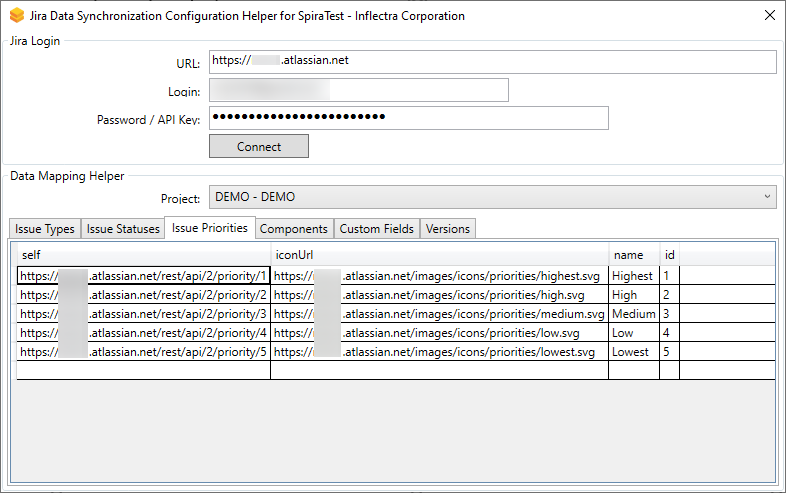
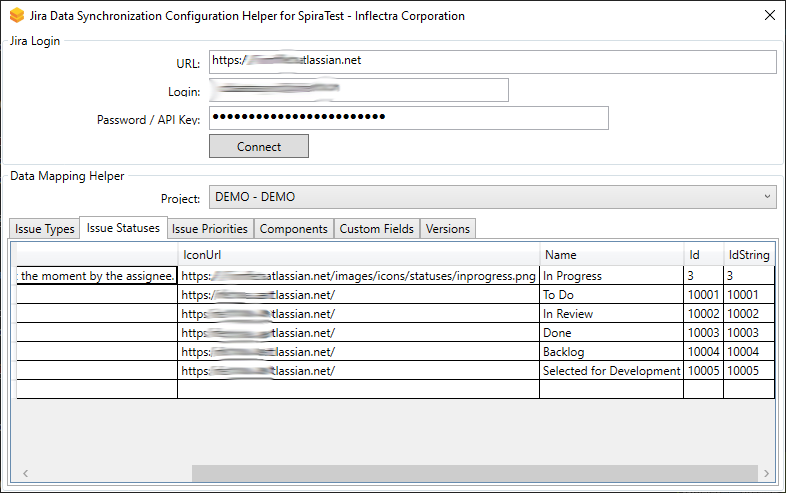
added task sync to jira plugins

diff --git a/docs/External-Bug-Tracking-Integration/Using-SpiraTeam-with-JIRA-5+.md b/docs/External-Bug-Tracking-Integration/Using-SpiraTeam-with-JIRA-5+.md
@@ -1,6 +1,6 @@
-# Using SpiraTeam with Jira Server (5 or later)
+# Using SpiraTeam with Jira Server (or DataCenter)
 
-This section outlines how to use SpiraTest, SpiraPlan or SpiraTeam (hereafter referred to as SpiraTeam) in conjunction with the Jira Server issue/bug tracking system version 5.0 and later. The built-in integration service allows the quality assurance team to manage their requirements and test cases in SpiraTeam, execute test runs in SpiraTest, and then have the new incidents generated during the run be automatically loaded into JIRA. Once the incidents are loaded into JIRA as issues, the development team can then manage the lifecycle of these issues in JIRA, and have the status changes in JIRA be reflected back in SpiraTeam.
+This section outlines how to use SpiraTest, SpiraPlan or SpiraTeam (hereafter referred to as SpiraTeam) in conjunction with the Jira Server or Jira DataCenter issue/bug tracking system version 5.0 and later. The built-in integration service allows the quality assurance team to manage their requirements and test cases in SpiraTeam, execute test runs in SpiraTest, and then have the new incidents generated during the run be automatically loaded into JIRA. Once the incidents are loaded into JIRA as issues, the development team can then manage the lifecycle of these issues in JIRA, and have the status changes in JIRA be reflected back in SpiraTeam. In addition, new tasks added in SpiraTeam get added to Jira as sub-tasks/tasks.
 
 In addition, any issues logged directly into JIRA will get imported into SpiraTeam as either new incidents or new requirements (depending on their type) so that they can be used as part of the planning and testing lifecycle.
 
@@ -54,7 +54,7 @@ time-zones here.
     - **Set to No**: users in SpiraTeam and JIRA are free to have different usernames because you specify the corresponding JIRA name for each user as outlined in [Configuring the User Mapping](#configuring-the-user-mapping)
 
 - **Custom 01**: This is used to specify a JIRA custom property that should be mapped to the built-in SpiraTeam Incident Severity field (which does not exist in JIRA). This can be left empty for now and will be discussed below in [Configuring the Data Mapping](#configuring-the-data-mapping).
-- **Custom 02**: This should be set to the word "True" if you want to have the new issues submitted to JIRA be submitted using a specified SecurityLevel. If you're not using the security level feature of JIRA, leave the field blank.
+- **Custom 02**: This should be set to a comma-separated list of IDs of any JIRA issue types that you want to be synchronized with SpiraPlan tasks instead of incidents. If you leave this blank, tasks in SpiraPlan will not be synched with Jira at all.
 - **Custom 03**: This determines how the synchronization of incidents works:
 
     - **Default (leave blank)**: By default the plugin will log new issues from SpiraTeam to JIRA, and from JIRA to SpiraTeam. Updates will only occur from JIRA to SpiraTeam. *NOTE: This is the recommended option for most users.*
@@ -286,6 +286,43 @@ The JIRA ID can be found by using the **Components** tab of the Jira configurati
 
 ![](img/Using_SpiraTeam_with_JIRA_5+_35.png)
 
+#### j) Task Status (Optional)
+
+Click on the "Status" hyperlink under Task Standard Fields to bring up the Task status mapping configuration screen:
+
+![](img/jira-task-mapping-status.png)
+
+The table lists each of the task statuses available in SpiraPlan and provides you with the ability to enter the matching JIRA issue status ID for each one. You can map multiple SpiraPlan fields to the same JIRA fields, in which case only one of the two values can be listed as Primary = Yes as that's the value that's used on the reverse synchronization (from JIRA to SpiraPlan).
+
+The JIRA ID can be found by using the **Issue Statuses** tab of the Jira configuration helper. *Please note, in Jira there are 5 default levels of Issue Priority, and only 4 (by default - this can be changed) in SpiraPlan.*
+
+![](img/Using_SpiraTeam_with_JIRA_5+_31.png)
+
+
+#### k) Task Priority (Optional)
+
+Click on the "Priority" hyperlink under Task Standard Fields to bring up the Task Priority mapping configuration screen:
+
+![](img/jira-task-mapping-priority.png)
+
+The table lists each of the task priorities available in SpiraPlan and provides you with the ability to enter the matching JIRA priority ID for each one. You can map multiple SpiraPlan fields to the same JIRA fields, in which case only one of the two values can be listed as Primary = Yes as that's the value that's used on the reverse synchronization (from JIRA to SpiraPlan).
+
+The JIRA ID can be found by using the **Issue Priorities** tab of the Jira configuration helper:
+
+![](img/Using_SpiraTeam_with_JIRA_5+_33.png)
+
+
+#### l) Task Type (Optional)
+
+Click on the "Type" hyperlink under Task Standard Fields to bring up the Task type mapping configuration screen:
+
+![](img/jira-task-mapping-type.png)
+
+The table lists each of the task types available in SpiraPlan and provides you with the ability to enter the matching JIRA issue type ID for each one. You can map multiple SpiraPlan fields to the same JIRA fields (e.g. Management and Other in SpiraPlan are both equivalent to Task in JIRA), in which case only one of the two values can be listed as Primary = Yes as that's the value that's used on the reverse synchronization (from JIRA to SpiraPlan).
+
+The JIRA ID can be found by using the **Issue Types** tab of the Jira configuration helper:
+
+![](img/Using_SpiraTeam_with_JIRA_5+_29.png)
 
 ### Configuring the Custom Property Mapping
 

diff --git a/docs/External-Bug-Tracking-Integration/Using-SpiraTeam-with-Jira-Cloud.md b/docs/External-Bug-Tracking-Integration/Using-SpiraTeam-with-Jira-Cloud.md
@@ -10,6 +10,7 @@ With this integration you can, for each project/product you want to sync up:
 - make sure all new incidents (and requirements) made in SpiraPlan get created in Jira
 - update SpiraPlan with changes made to issues in Jira
 - (advanced) update Jira with changes made to incidents in SpiraPlan
+- (advanced) create new Jira sub-tasks from tasks created in SpiraPlan
 - make sure your sprints match between Jira and SpiraPlan
 - connect together users so the right user is flagged against each issue and  incident
 
@@ -31,7 +32,7 @@ Now that the data synchronization service / application itself is set up, we are
 
 Now you need to configure the Jira integration to let you:
 
-- export incidents into JIRA, 
+- export incidents and tasks into JIRA, 
 - import new issues from JIRA
 - pick up subsequent status changes in JIRA and have them update SpiraPlan. 
 
@@ -71,7 +72,7 @@ time-zones here.
     - **Set to No**: users in SpiraPlan and JIRA are free to have different usernames because you specify the corresponding JIRA name for each user as outlined in [Configuring the User Mapping](#configuring-the-user-mapping)
 
 - **Custom 01**: This is used to specify a JIRA custom property that should be mapped to the built-in SpiraPlan Incident Severity field (which does not exist in JIRA). This can be left empty for now and will be discussed below in [Configuring the Data Mapping](#configuring-the-data-mapping).
-- **Custom 02**: This should be set to the word "True" if you want to have the new issues submitted to JIRA be submitted using a specified SecurityLevel. If you're not using the security level feature of JIRA, leave the field blank.
+- **Custom 02**: This should be set to a comma-separated list of IDs of any JIRA issue types that you want to be synchronized with SpiraPlan tasks instead of incidents. If you leave this blank, tasks in SpiraPlan will not be synched with Jira at all.
 - **Custom 03**: This determines how the synchronization of incidents works:
 
     - **Default (leave blank)**: By default the plugin will log new issues from SpiraPlan to JIRA, and from JIRA to SpiraPlan. Updates will only occur from JIRA to SpiraPlan. *NOTE: This is the recommended option for most users.*
@@ -316,6 +317,44 @@ The table lists each of the components available in SpiraPlan and provides you w
 The JIRA ID can be found by using the **Components** tab of the Jira configuration helper:
 
 ![](img/Using_SpiraTeam_with_JIRA_5+_35.png)
+
+#### j) Task Status (Optional)
+
+Click on the "Status" hyperlink under Task Standard Fields to bring up the Task status mapping configuration screen:
+
+![](img/jira-task-mapping-status.png)
+
+The table lists each of the task statuses available in SpiraPlan and provides you with the ability to enter the matching JIRA issue status ID for each one. You can map multiple SpiraPlan fields to the same JIRA fields, in which case only one of the two values can be listed as Primary = Yes as that's the value that's used on the reverse synchronization (from JIRA to SpiraPlan).
+
+The JIRA ID can be found by using the **Issue Statuses** tab of the Jira configuration helper. *Please note, in Jira there are 5 default levels of Issue Priority, and only 4 (by default - this can be changed) in SpiraPlan.*
+
+![](img/Using_SpiraTeam_with_JIRA_5+_31.png)
+
+
+#### k) Task Priority (Optional)
+
+Click on the "Priority" hyperlink under Task Standard Fields to bring up the Task Priority mapping configuration screen:
+
+![](img/jira-task-mapping-priority.png)
+
+The table lists each of the task priorities available in SpiraPlan and provides you with the ability to enter the matching JIRA priority ID for each one. You can map multiple SpiraPlan fields to the same JIRA fields, in which case only one of the two values can be listed as Primary = Yes as that's the value that's used on the reverse synchronization (from JIRA to SpiraPlan).
+
+The JIRA ID can be found by using the **Issue Priorities** tab of the Jira configuration helper:
+
+![](img/Using_SpiraTeam_with_JIRA_5+_33.png)
+
+
+#### l) Task Type (Optional)
+
+Click on the "Type" hyperlink under Task Standard Fields to bring up the Task type mapping configuration screen:
+
+![](img/jira-task-mapping-type.png)
+
+The table lists each of the task types available in SpiraPlan and provides you with the ability to enter the matching JIRA issue type ID for each one. You can map multiple SpiraPlan fields to the same JIRA fields (e.g. Management and Other in SpiraPlan are both equivalent to Task in JIRA), in which case only one of the two values can be listed as Primary = Yes as that's the value that's used on the reverse synchronization (from JIRA to SpiraPlan).
+
+The JIRA ID can be found by using the **Issue Types** tab of the Jira configuration helper:
+
+![](img/Using_SpiraTeam_with_JIRA_5+_29.png)
 
 ### Configuring the Custom Property Mapping
 
